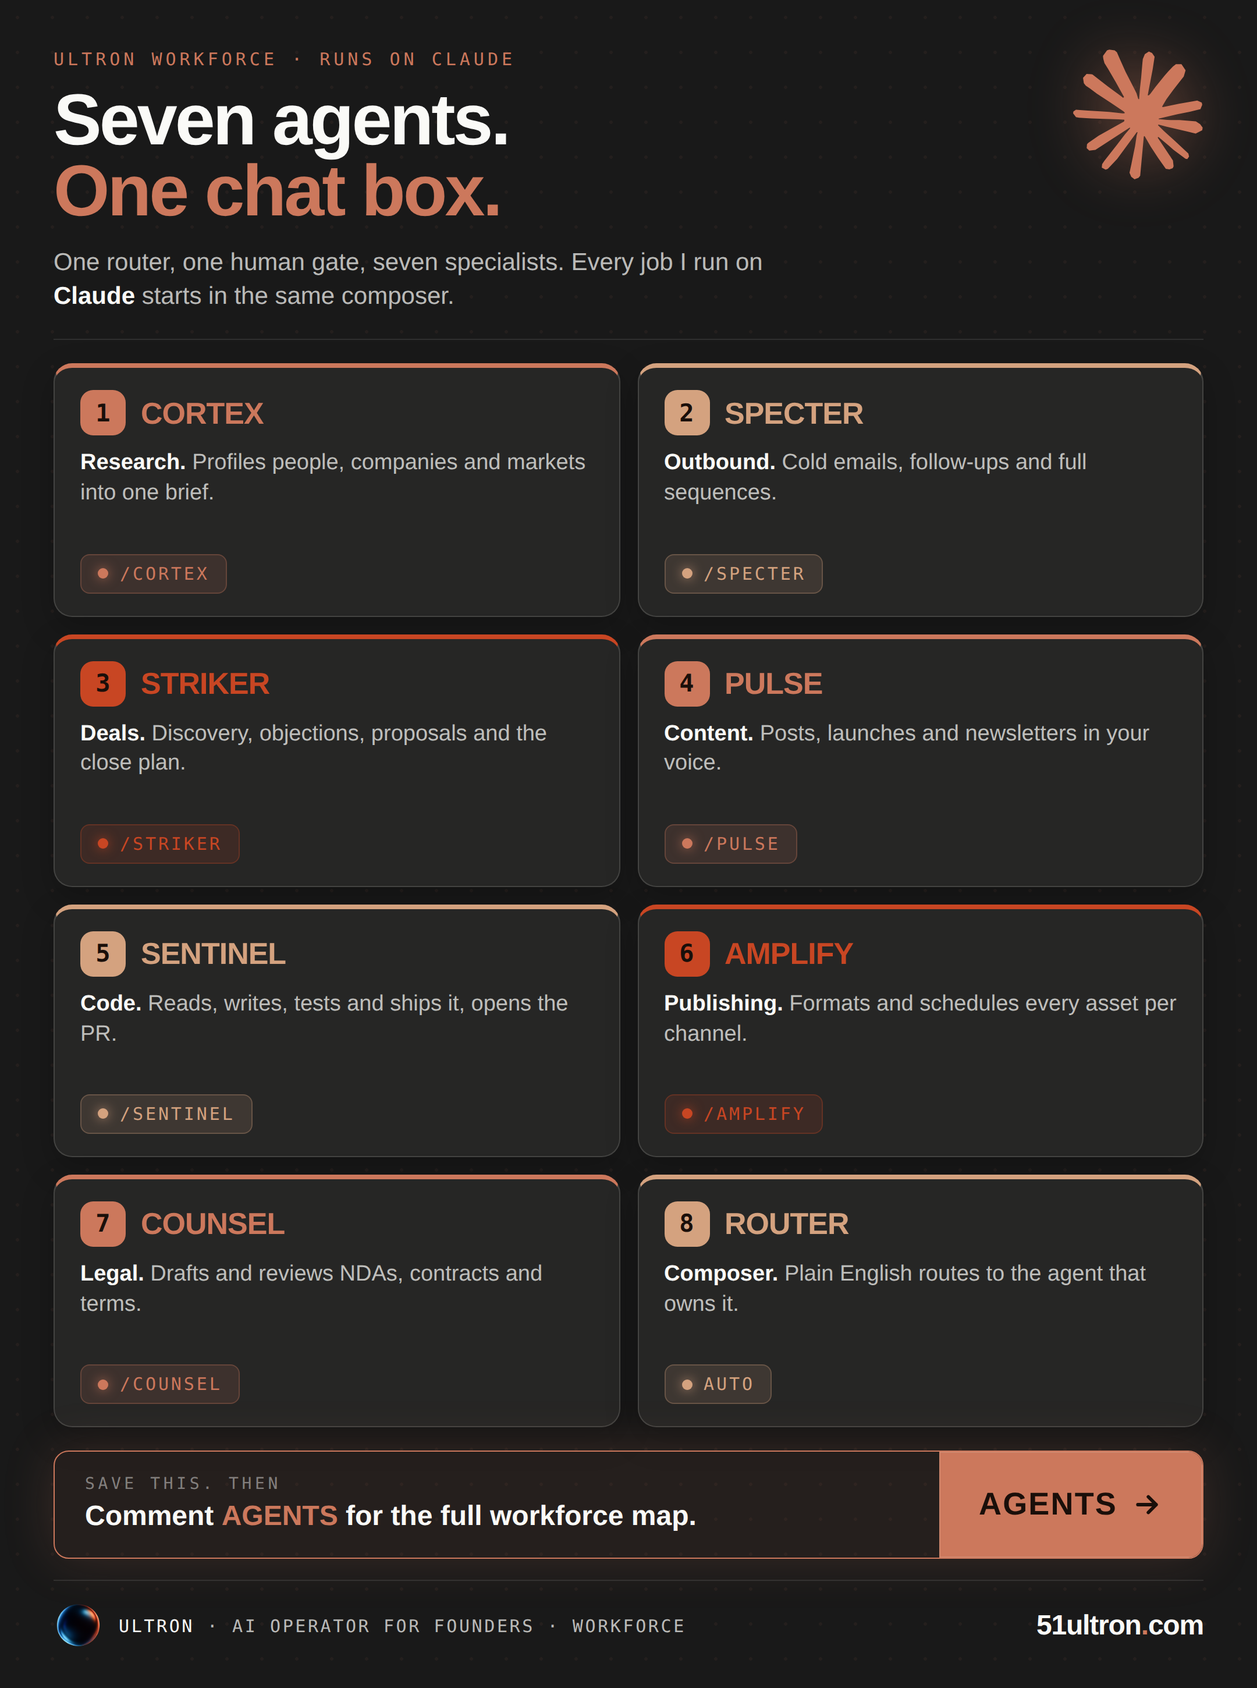
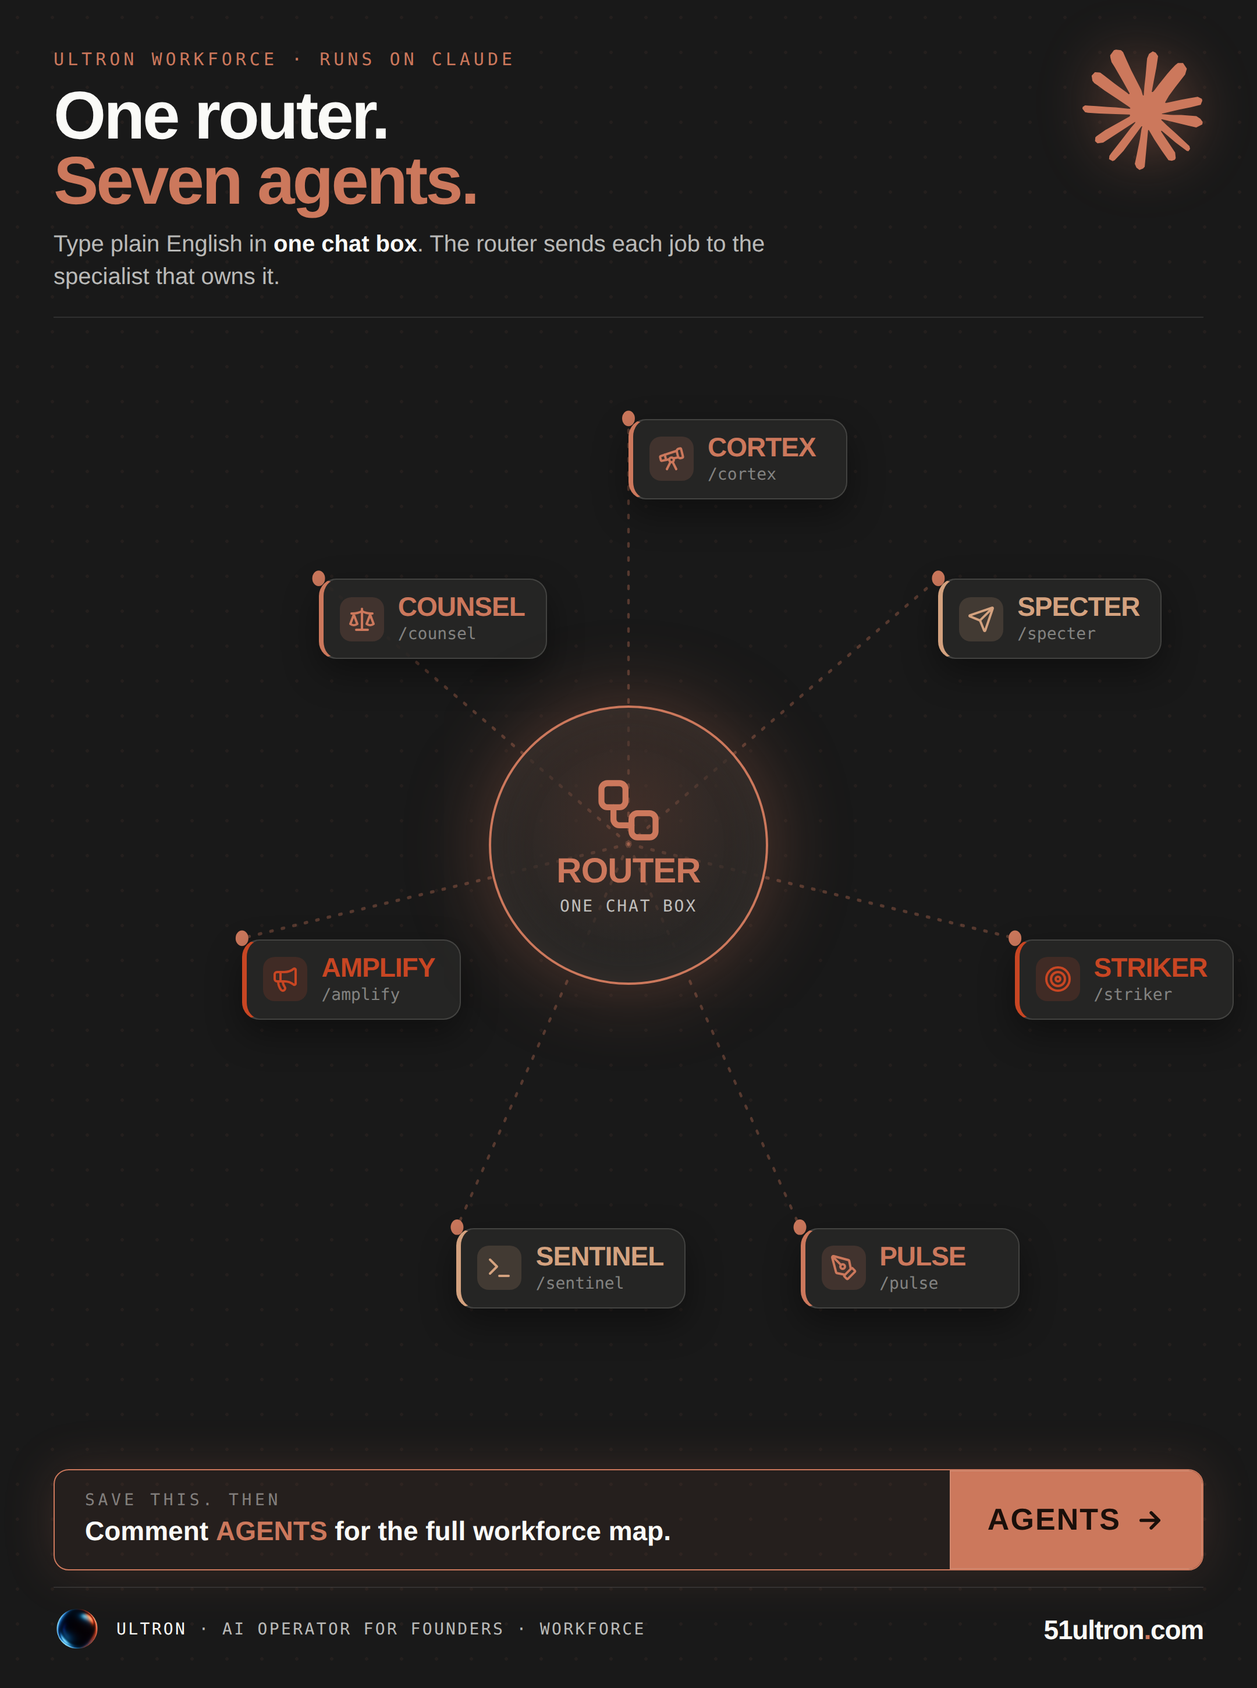
docs-04 workforce TikTok: vary infographic to radial/orbit (A12)
Operator: the card-grid infographic looked like the last 10 posts. Swap the 2x4
grid for the A12 radial/orbit archetype: a glowing central ROUTER hub with the
seven agents orbiting on dashed SVG connectors, each a glass node with icon,
name and slash command, color-cycled book/kraft/book-d. Same Dark Ultron glass,
1080x1450, scrollHeight 1450, no forbidden chars. Carousel left unchanged.

https://claude.ai/code/session_018fS7xMwDiJUxoNS3zo3BKw

diff --git a/content/docs-04-workforce-tiktok-infographic.html b/content/docs-04-workforce-tiktok-infographic.html
@@ -1,62 +1,70 @@
 <!DOCTYPE html><html lang="en"><head><meta charset="UTF-8">
 <link href="https://fonts.googleapis.com/css2?family=DM+Sans:opsz,wght@9..40,400;9..40,500;9..40,600;9..40,700;9..40,800;9..40,900&family=DM+Mono:wght@400;500&display=swap" rel="stylesheet">
 <style>
-:root{--slate:#191919;--slate2:#262625;--ivory:#FAFAF7;--ink70:rgba(250,250,247,.72);--ink46:rgba(250,250,247,.46);--ink14:rgba(250,250,247,.14);--rule:rgba(250,250,247,.10);--book:#CC785C;--book-d:#C84623;--kraft:#D4A27F;}
+:root{--slate:#191919;--slate2:#262625;--ivory:#FAFAF7;--ink70:rgba(250,250,247,.72);--ink46:rgba(250,250,247,.46);--ink30:rgba(250,250,247,.30);--ink14:rgba(250,250,247,.14);--rule:rgba(250,250,247,.10);--book:#CC785C;--book-d:#C84623;--kraft:#D4A27F;}
 *{box-sizing:border-box;margin:0;padding:0;}
 body{background:#0d0d0d;display:flex;justify-content:center;padding:24px 0;font-family:'DM Sans',sans-serif;}
-.frame{width:1080px;height:1450px;background:var(--slate);padding:42px 46px 32px;position:relative;overflow:hidden;color:var(--ivory);display:flex;flex-direction:column;}
+.frame{width:1080px;height:1450px;background:var(--slate);padding:42px 46px 30px;position:relative;overflow:hidden;color:var(--ivory);display:flex;flex-direction:column;}
 .frame::before{content:'';position:absolute;inset:0;pointer-events:none;z-index:0;background-image:radial-gradient(rgba(204,120,92,.06) 1.4px,transparent 1.5px);background-size:30px 30px;}
 .atm{position:absolute;inset:0;pointer-events:none;z-index:1;background:radial-gradient(ellipse 56% 28% at 88% -1%,rgba(204,120,92,.2) 0%,transparent 60%),radial-gradient(ellipse 50% 24% at 4% 101%,rgba(212,162,127,.1) 0%,transparent 60%);}
 .frame>*{position:relative;z-index:2;}
-.hero{flex-shrink:0;display:flex;align-items:flex-start;justify-content:space-between;gap:24px;padding-bottom:22px;border-bottom:1px solid var(--rule);margin-bottom:20px;}
-.eye{font-family:'DM Mono',monospace;font-size:15px;font-weight:500;letter-spacing:.2em;text-transform:uppercase;color:var(--book);margin-bottom:14px;}
-.hook{font-weight:900;font-size:62px;line-height:.98;letter-spacing:-2px;color:var(--ivory);}
+.hero{flex-shrink:0;display:flex;align-items:flex-start;justify-content:space-between;gap:24px;padding-bottom:20px;border-bottom:1px solid var(--rule);}
+.eye{font-family:'DM Mono',monospace;font-size:15px;font-weight:500;letter-spacing:.2em;text-transform:uppercase;color:var(--book);margin-bottom:12px;}
+.hook{font-weight:900;font-size:58px;line-height:.96;letter-spacing:-2px;color:var(--ivory);}
 .hook em{color:var(--book);font-style:normal;}
-.sub{margin-top:15px;font-size:21px;font-weight:500;line-height:1.4;color:var(--ink70);max-width:660px;}
+.sub{margin-top:13px;font-size:20px;font-weight:500;line-height:1.4;color:var(--ink70);max-width:620px;}
 .sub b{color:var(--ivory);font-weight:700;}
-.claude{width:112px;height:112px;flex-shrink:0;filter:drop-shadow(0 0 24px rgba(204,120,92,.45));}
+.claude{width:104px;height:104px;flex-shrink:0;filter:drop-shadow(0 0 24px rgba(204,120,92,.45));}
 .claude svg{width:100%;height:100%;}
-.grid{flex:1;display:grid;grid-template-columns:1fr 1fr;gap:15px;align-content:stretch;min-height:0;}
-.card{background:var(--slate2);border:1px solid var(--ink14);border-top:4px solid var(--c);border-radius:16px;padding:19px 22px;display:flex;flex-direction:column;box-shadow:0 10px 28px rgba(0,0,0,.22);}
-.ch{display:flex;align-items:center;gap:13px;margin-bottom:11px;}
-.cn{font-family:'DM Mono',monospace;width:39px;height:39px;border-radius:11px;background:var(--c);color:#1a0f0a;font-weight:700;font-size:21px;display:flex;align-items:center;justify-content:center;flex-shrink:0;}
-.ct{font-weight:800;font-size:26px;letter-spacing:-.5px;color:var(--c);text-transform:uppercase;line-height:1;}
-.cd{font-size:19px;font-weight:500;color:var(--ink70);line-height:1.36;flex:1;margin-bottom:13px;}
-.cd b{color:var(--ivory);font-weight:700;}
-.cspec{align-self:flex-start;display:inline-flex;align-items:center;gap:10px;font-family:'DM Mono',monospace;font-size:15px;font-weight:500;letter-spacing:.13em;text-transform:uppercase;color:var(--c);background:color-mix(in srgb,var(--c) 14%,var(--slate2));border:1px solid color-mix(in srgb,var(--c) 38%,var(--slate2));padding:7px 14px;border-radius:8px;}
-.cspec .dot{width:9px;height:9px;border-radius:50%;background:var(--c);box-shadow:0 0 10px color-mix(in srgb,var(--c) 80%,transparent);}
-.cta{flex-shrink:0;margin-top:20px;display:flex;align-items:stretch;border:1px solid var(--book);border-radius:13px;overflow:hidden;box-shadow:0 0 44px rgba(204,120,92,.18);}
-.cta-l{flex:1;padding:20px 26px;display:flex;flex-direction:column;justify-content:center;gap:6px;background:rgba(204,120,92,.07);}
+.orbit{flex:1;position:relative;min-height:0;}
+.orbit svg.wires{position:absolute;inset:0;width:100%;height:100%;z-index:1;overflow:visible;}
+.orbit svg.wires line{stroke:rgba(204,120,92,.34);stroke-width:2.4;stroke-dasharray:2 9;stroke-linecap:round;}
+.orbit svg.wires circle{fill:var(--book);}
+.hub{position:absolute;left:50%;top:46.4%;transform:translate(-50%,-50%);width:240px;height:240px;border-radius:50%;z-index:3;
+  background:radial-gradient(circle at 50% 38%,rgba(204,120,92,.22),var(--slate2) 70%);border:2px solid var(--book);
+  box-shadow:0 0 70px rgba(204,120,92,.34),inset 0 0 40px rgba(204,120,92,.1);display:flex;flex-direction:column;align-items:center;justify-content:center;gap:5px;}
+.hub-ic{width:62px;height:62px;}.hub-ic svg{width:100%;height:100%;}
+.hub-nm{font-weight:900;font-size:30px;letter-spacing:-.5px;color:var(--book);text-transform:uppercase;}
+.hub-sub{font-family:'DM Mono',monospace;font-size:14px;font-weight:500;letter-spacing:.1em;text-transform:uppercase;color:var(--ink70);}
+.node{position:absolute;z-index:4;display:flex;align-items:center;gap:12px;min-width:188px;
+  background:rgba(38,38,37,.92);border:1px solid var(--ink14);border-left:4px solid var(--c);border-radius:15px;padding:12px 18px 12px 14px;box-shadow:0 12px 30px rgba(0,0,0,.4);}
+.node-ic{width:38px;height:38px;flex-shrink:0;border-radius:10px;background:color-mix(in srgb,var(--c) 16%,var(--slate2));display:flex;align-items:center;justify-content:center;}
+.node-ic svg{width:24px;height:24px;}
+.node-nm{font-weight:800;font-size:23px;letter-spacing:-.5px;color:var(--c);text-transform:uppercase;line-height:1;}
+.node-sl{font-family:'DM Mono',monospace;font-size:14px;font-weight:500;color:var(--ink46);margin-top:4px;}
+.cta{flex-shrink:0;margin-top:14px;display:flex;align-items:stretch;border:1px solid var(--book);border-radius:13px;overflow:hidden;box-shadow:0 0 44px rgba(204,120,92,.18);}
+.cta-l{flex:1;padding:18px 26px;display:flex;flex-direction:column;justify-content:center;gap:5px;background:rgba(204,120,92,.07);}
 .cta-k{font-family:'DM Mono',monospace;font-size:14px;font-weight:500;letter-spacing:.2em;text-transform:uppercase;color:var(--ink46);}
-.cta-t{font-size:24px;font-weight:700;color:var(--ivory);line-height:1.2;}
-.cta-t b{color:var(--book);font-weight:900;}
-.cta-chip{flex-shrink:0;padding:0 34px;gap:12px;background:var(--book);display:flex;align-items:center;font-size:27px;font-weight:900;letter-spacing:.04em;text-transform:uppercase;color:#1a0f0a;box-shadow:inset 0 0 0 1px rgba(250,255,247,.12);}
-.cta-chip svg{width:27px;height:27px;stroke:#1a0f0a;stroke-width:2.6;fill:none;stroke-linecap:round;stroke-linejoin:round;}
-.ftr{flex-shrink:0;margin-top:18px;display:flex;align-items:center;justify-content:space-between;gap:18px;border-top:1px solid var(--rule);padding-top:18px;}
+.cta-t{font-size:23px;font-weight:700;color:var(--ivory);line-height:1.2;}.cta-t b{color:var(--book);font-weight:900;}
+.cta-chip{flex-shrink:0;padding:0 32px;gap:12px;background:var(--book);display:flex;align-items:center;font-size:26px;font-weight:900;letter-spacing:.04em;text-transform:uppercase;color:#1a0f0a;box-shadow:inset 0 0 0 1px rgba(250,255,247,.12);}
+.cta-chip svg{width:26px;height:26px;stroke:#1a0f0a;stroke-width:2.6;fill:none;stroke-linecap:round;stroke-linejoin:round;}
+.ftr{flex-shrink:0;margin-top:14px;display:flex;align-items:center;justify-content:space-between;gap:18px;border-top:1px solid var(--rule);padding-top:16px;}
 .fl{display:flex;align-items:center;gap:14px;min-width:0;}
-.flogo{width:42px;height:42px;border-radius:50%;object-fit:cover;flex-shrink:0;}
-.ftx{font-family:'DM Mono',monospace;font-size:15px;font-weight:400;letter-spacing:.12em;text-transform:uppercase;color:var(--ink70);white-space:nowrap;overflow:hidden;text-overflow:ellipsis;}
+.flogo{width:40px;height:40px;border-radius:50%;object-fit:cover;flex-shrink:0;}
+.ftx{font-family:'DM Mono',monospace;font-size:14px;font-weight:400;letter-spacing:.12em;text-transform:uppercase;color:var(--ink70);}
 .ftx b{color:var(--ivory);font-weight:500;}
-.furl{font-weight:900;font-size:24px;letter-spacing:-.6px;color:var(--ivory);flex-shrink:0;}
-.furl em{color:var(--book);font-style:normal;}
+.furl{font-weight:900;font-size:23px;letter-spacing:-.6px;color:var(--ivory);flex-shrink:0;}.furl em{color:var(--book);font-style:normal;}
 </style></head><body>
 <svg width="0" height="0" style="position:absolute"><defs>
 <symbol id="claude-logo" viewBox="0 0 1200 1200"><path fill="#cc785c" d="M 233.96 800.21 L 468.64 668.54 L 472.59 657.10 L 468.64 650.74 L 457.21 650.74 L 417.99 648.32 L 283.89 644.70 L 167.60 639.87 L 54.93 633.83 L 26.58 627.79 L 0 592.75 L 2.74 575.28 L 26.58 559.25 L 60.72 562.23 L 136.19 567.38 L 249.42 575.19 L 331.57 580.03 L 453.26 592.67 L 472.59 592.67 L 475.33 584.86 L 468.72 580.03 L 463.57 575.19 L 346.39 495.79 L 219.54 411.87 L 153.10 363.54 L 117.18 339.06 L 99.06 316.11 L 91.25 266.01 L 123.87 230.09 L 167.68 233.07 L 178.87 236.05 L 223.25 270.20 L 318.04 343.57 L 441.83 434.74 L 459.95 449.80 L 467.19 444.64 L 468.08 441.02 L 459.95 427.41 L 392.62 305.72 L 320.78 181.93 L 288.81 130.63 L 280.35 99.87 C 277.37 87.22 275.19 76.59 275.19 63.62 L 312.32 13.21 L 332.86 6.60 L 382.39 13.21 L 403.25 31.33 L 434.01 101.72 L 483.87 212.54 L 561.18 363.22 L 583.81 407.92 L 595.89 449.32 L 600.40 461.96 L 608.21 461.96 L 608.21 454.71 L 614.58 369.83 L 626.34 265.61 L 637.77 131.52 L 641.72 93.75 L 660.40 48.48 L 697.53 24.00 L 726.52 37.85 L 750.36 72 L 747.06 94.07 L 732.89 186.20 L 705.10 330.52 L 686.98 427.17 L 697.53 427.17 L 709.61 415.09 L 758.50 350.17 L 840.64 247.49 L 876.89 206.74 L 919.17 161.72 L 946.31 140.30 L 997.61 140.30 L 1035.38 196.43 L 1018.47 254.42 L 965.64 321.42 L 921.83 378.20 L 859.01 462.77 L 819.79 530.42 L 823.41 535.81 L 832.75 534.93 L 974.66 504.72 L 1051.33 490.87 L 1142.82 475.17 L 1184.21 494.50 L 1188.72 514.15 L 1172.46 554.34 L 1074.60 578.50 L 959.84 601.45 L 788.94 641.88 L 786.85 643.41 L 789.26 646.39 L 866.26 653.64 L 899.19 655.41 L 979.81 655.41 L 1129.93 666.60 L 1169.15 692.54 L 1192.67 724.27 L 1188.72 748.43 L 1128.32 779.19 L 1046.82 759.87 L 856.59 714.60 L 791.36 698.34 L 782.34 698.34 L 782.34 703.73 L 836.70 756.89 L 936.32 846.85 L 1061.07 962.82 L 1067.44 991.49 L 1051.41 1014.12 L 1034.50 1011.70 L 924.89 929.23 L 882.60 892.11 L 786.85 811.49 L 780.48 811.49 L 780.48 819.95 L 802.55 852.24 L 919.09 1027.41 L 925.13 1081.13 L 916.67 1098.60 L 886.47 1109.15 L 853.29 1103.11 L 785.07 1007.36 L 714.68 899.52 L 657.91 802.87 L 650.98 806.82 L 617.48 1167.70 L 601.77 1186.15 L 565.53 1200 L 535.33 1177.05 L 519.30 1139.92 L 535.33 1066.55 L 554.66 970.79 L 570.36 894.68 L 584.54 800.13 L 592.99 768.72 L 592.43 766.63 L 585.50 767.52 L 514.23 865.37 L 405.83 1011.87 L 320.05 1103.68 L 299.52 1111.81 L 263.92 1093.37 L 267.22 1060.43 L 287.11 1031.11 L 405.83 880.11 L 477.42 786.52 L 523.65 732.48 L 523.33 724.67 L 520.59 724.67 L 205.29 929.40 L 149.15 936.64 L 124.99 914.01 L 127.97 876.89 L 139.41 864.81 L 234.20 799.57 Z"/></symbol>
 </defs></svg>
 <div class="frame" id="artifact"><div class="atm"></div>
   <div class="hero"><div><div class="eye">Ultron Workforce &middot; Runs on Claude</div>
-    <div class="hook">Seven agents.<br><em>One chat box.</em></div>
-    <div class="sub">One router, one human gate, seven specialists. Every job I run on <b>Claude</b> starts in the same composer.</div></div>
+    <div class="hook">One router.<br><em>Seven agents.</em></div>
+    <div class="sub">Type plain English in <b>one chat box</b>. The router sends each job to the specialist that owns it.</div></div>
     <div class="claude"><svg viewBox="0 0 1200 1200"><use href="#claude-logo"/></svg></div></div>
-  <div class="grid"><div class="card" style="--c:var(--book)"><div class="ch"><span class="cn">1</span><span class="ct">CORTEX</span></div><div class="cd"><b>Research.</b> Profiles people, companies and markets into one brief.</div><div class="cspec"><span class="dot"></span>/cortex</div></div>
-<div class="card" style="--c:var(--kraft)"><div class="ch"><span class="cn">2</span><span class="ct">SPECTER</span></div><div class="cd"><b>Outbound.</b> Cold emails, follow-ups and full sequences.</div><div class="cspec"><span class="dot"></span>/specter</div></div>
-<div class="card" style="--c:var(--book-d)"><div class="ch"><span class="cn">3</span><span class="ct">STRIKER</span></div><div class="cd"><b>Deals.</b> Discovery, objections, proposals and the close plan.</div><div class="cspec"><span class="dot"></span>/striker</div></div>
-<div class="card" style="--c:var(--book)"><div class="ch"><span class="cn">4</span><span class="ct">PULSE</span></div><div class="cd"><b>Content.</b> Posts, launches and newsletters in your voice.</div><div class="cspec"><span class="dot"></span>/pulse</div></div>
-<div class="card" style="--c:var(--kraft)"><div class="ch"><span class="cn">5</span><span class="ct">SENTINEL</span></div><div class="cd"><b>Code.</b> Reads, writes, tests and ships it, opens the PR.</div><div class="cspec"><span class="dot"></span>/sentinel</div></div>
-<div class="card" style="--c:var(--book-d)"><div class="ch"><span class="cn">6</span><span class="ct">AMPLIFY</span></div><div class="cd"><b>Publishing.</b> Formats and schedules every asset per channel.</div><div class="cspec"><span class="dot"></span>/amplify</div></div>
-<div class="card" style="--c:var(--book)"><div class="ch"><span class="cn">7</span><span class="ct">COUNSEL</span></div><div class="cd"><b>Legal.</b> Drafts and reviews NDAs, contracts and terms.</div><div class="cspec"><span class="dot"></span>/counsel</div></div>
-<div class="card" style="--c:var(--kraft)"><div class="ch"><span class="cn">8</span><span class="ct">ROUTER</span></div><div class="cd"><b>Composer.</b> Plain English routes to the agent that owns it.</div><div class="cspec"><span class="dot"></span>auto</div></div>
-</div>
+  <div class="orbit">
+    <svg class="wires" viewBox="0 0 1080 880" preserveAspectRatio="none"><line x1="540" y1="408" x2="540" y2="78"/><line x1="540" y1="408" x2="831" y2="202"/><line x1="540" y1="408" x2="903" y2="481"/><line x1="540" y1="408" x2="701" y2="705"/><line x1="540" y1="408" x2="379" y2="705"/><line x1="540" y1="408" x2="177" y2="481"/><line x1="540" y1="408" x2="249" y2="202"/><circle cx="540" cy="78" r="6"/><circle cx="831" cy="202" r="6"/><circle cx="903" cy="481" r="6"/><circle cx="701" cy="705" r="6"/><circle cx="379" cy="705" r="6"/><circle cx="177" cy="481" r="6"/><circle cx="249" cy="202" r="6"/></svg>
+    <div class="hub"><div class="hub-ic"><svg xmlns="http://www.w3.org/2000/svg" width="1em" height="1em" viewBox="0 0 24 24"><g fill="none" stroke="#CC785C" stroke-linecap="round" stroke-linejoin="round" stroke-width="2"><rect width="8" height="8" x="3" y="3" rx="2"/><path d="M7 11v4a2 2 0 0 0 2 2h4"/><rect width="8" height="8" x="13" y="13" rx="2"/></g></svg></div><div class="hub-nm">Router</div><div class="hub-sub">one chat box</div></div>
+    <div class="node" style="left:50.00%;top:8.86%;--c:var(--book);">
+      <div class="node-ic"><svg xmlns="http://www.w3.org/2000/svg" width="1em" height="1em" viewBox="0 0 24 24"><g fill="none" stroke="#CC785C" stroke-linecap="round" stroke-linejoin="round" stroke-width="2"><path d="m10.065 12.493l-6.18 1.318a.934.934 0 0 1-1.108-.702l-.537-2.15a1.07 1.07 0 0 1 .691-1.265l13.504-4.44m-2.875 6.493l4.332-.924M16 21l-3.105-6.21"/><path d="M16.485 5.94a2 2 0 0 1 1.455-2.425l1.09-.272a1 1 0 0 1 1.212.727l1.515 6.06a1 1 0 0 1-.727 1.213l-1.09.272a2 2 0 0 1-2.425-1.455zM6.158 8.633l1.114 4.456M8 21l3.105-6.21"/><circle cx="12" cy="13" r="2"/></g></svg></div><div class="node-tx"><div class="node-nm">CORTEX</div><div class="node-sl">/cortex</div></div></div><div class="node" style="left:76.93%;top:22.98%;--c:var(--kraft);">
+      <div class="node-ic"><svg xmlns="http://www.w3.org/2000/svg" width="1em" height="1em" viewBox="0 0 24 24"><path fill="none" stroke="#D4A27F" stroke-linecap="round" stroke-linejoin="round" stroke-width="2" d="M14.536 21.686a.5.5 0 0 0 .937-.024l6.5-19a.496.496 0 0 0-.635-.635l-19 6.5a.5.5 0 0 0-.024.937l7.93 3.18a2 2 0 0 1 1.112 1.11zm7.318-19.539l-10.94 10.939"/></svg></div><div class="node-tx"><div class="node-nm">SPECTER</div><div class="node-sl">/specter</div></div></div><div class="node" style="left:83.58%;top:54.71%;--c:var(--book-d);">
+      <div class="node-ic"><svg xmlns="http://www.w3.org/2000/svg" width="1em" height="1em" viewBox="0 0 24 24"><g fill="none" stroke="#C84623" stroke-linecap="round" stroke-linejoin="round" stroke-width="2"><circle cx="12" cy="12" r="10"/><circle cx="12" cy="12" r="6"/><circle cx="12" cy="12" r="2"/></g></svg></div><div class="node-tx"><div class="node-nm">STRIKER</div><div class="node-sl">/striker</div></div></div><div class="node" style="left:64.94%;top:80.15%;--c:var(--book);">
+      <div class="node-ic"><svg xmlns="http://www.w3.org/2000/svg" width="1em" height="1em" viewBox="0 0 24 24"><g fill="none" stroke="#CC785C" stroke-linecap="round" stroke-linejoin="round" stroke-width="2"><path d="M15.707 21.293a1 1 0 0 1-1.414 0l-1.586-1.586a1 1 0 0 1 0-1.414l5.586-5.586a1 1 0 0 1 1.414 0l1.586 1.586a1 1 0 0 1 0 1.414z"/><path d="m18 13l-1.375-6.874a1 1 0 0 0-.746-.776L3.235 2.028a1 1 0 0 0-1.207 1.207L5.35 15.879a1 1 0 0 0 .776.746L13 18M2.3 2.3l7.286 7.286"/><circle cx="11" cy="11" r="2"/></g></svg></div><div class="node-tx"><div class="node-nm">PULSE</div><div class="node-sl">/pulse</div></div></div><div class="node" style="left:35.06%;top:80.15%;--c:var(--kraft);">
+      <div class="node-ic"><svg xmlns="http://www.w3.org/2000/svg" width="1em" height="1em" viewBox="0 0 24 24"><path fill="none" stroke="#D4A27F" stroke-linecap="round" stroke-linejoin="round" stroke-width="2" d="M12 19h8M4 17l6-6l-6-6"/></svg></div><div class="node-tx"><div class="node-nm">SENTINEL</div><div class="node-sl">/sentinel</div></div></div><div class="node" style="left:16.42%;top:54.71%;--c:var(--book-d);">
+      <div class="node-ic"><svg xmlns="http://www.w3.org/2000/svg" width="1em" height="1em" viewBox="0 0 24 24"><g fill="none" stroke="#C84623" stroke-linecap="round" stroke-linejoin="round" stroke-width="2"><path d="M11 6a13 13 0 0 0 8.4-2.8A1 1 0 0 1 21 4v12a1 1 0 0 1-1.6.8A13 13 0 0 0 11 14H5a2 2 0 0 1-2-2V8a2 2 0 0 1 2-2z"/><path d="M6 14a12 12 0 0 0 2.4 7.2a2 2 0 0 0 3.2-2.4A8 8 0 0 1 10 14M8 6v8"/></g></svg></div><div class="node-tx"><div class="node-nm">AMPLIFY</div><div class="node-sl">/amplify</div></div></div><div class="node" style="left:23.07%;top:22.98%;--c:var(--book);">
+      <div class="node-ic"><svg xmlns="http://www.w3.org/2000/svg" width="1em" height="1em" viewBox="0 0 24 24"><g fill="none" stroke="#CC785C" stroke-linecap="round" stroke-linejoin="round" stroke-width="2"><path d="M12 3v18m7-13l3 8a5 5 0 0 1-6 0zV7"/><path d="M3 7h1a17 17 0 0 0 8-2a17 17 0 0 0 8 2h1M5 8l3 8a5 5 0 0 1-6 0zV7m2 14h10"/></g></svg></div><div class="node-tx"><div class="node-nm">COUNSEL</div><div class="node-sl">/counsel</div></div></div>
+  </div>
   <div class="cta"><div class="cta-l"><div class="cta-k">Save this. Then</div><div class="cta-t">Comment <b>AGENTS</b> for the full workforce map.</div></div>
     <div class="cta-chip">AGENTS <svg viewBox="0 0 24 24"><path d="M5 12h14M13 6l6 6-6 6"/></svg></div></div>
   <div class="ftr"><div class="fl"><img class="flogo" src="__LOGO_URI__" alt="Ultron"><div class="ftx"><b>ULTRON</b> &middot; AI OPERATOR FOR FOUNDERS &middot; WORKFORCE</div></div>

diff --git a/analysis/reference-layouts.md b/analysis/reference-layouts.md
@@ -46,3 +46,4 @@
 ## Archetype usage log
 - docs-03 chat — (my default 3-col card grid — NOT from this menu — to be reworked)
 - docs-04 workforce — A5 dense dashboard, CLONED from script-37, REALNUMBERS light, DM Sans/Mono. Max-density pass: stat-tiles band + 7-col roster (tier/pairs/returns) + flow strip. Roster = 7 agents (CLAUDE.md §1 aligned 2026-06-04).
+- docs-04 workforce TikTok infographic — A12 radial/orbit (router hub + 7 agent nodes + SVG wires), Dark Ultron glass. Replaces the card-grid version (too similar to last 10 posts). Carousel (8 slides) unchanged.
